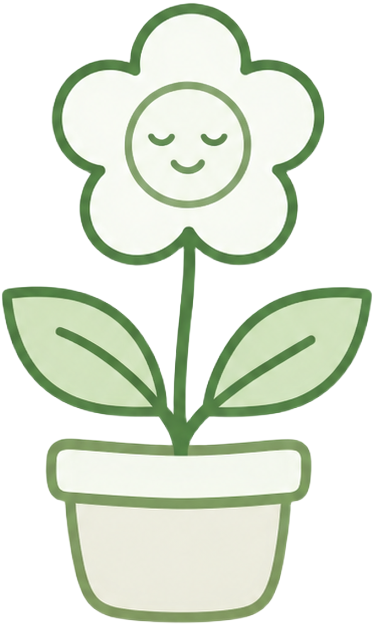
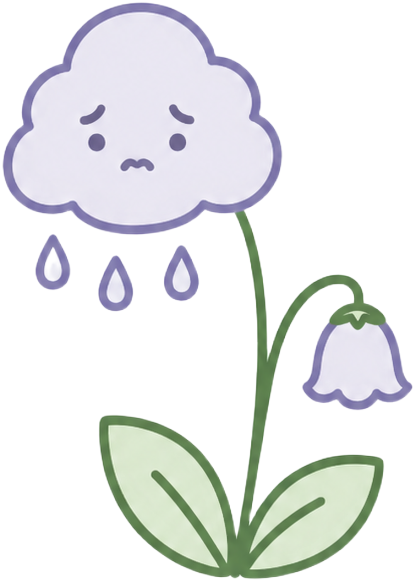
Finalize V3.1 DX2 base UI refinement

diff --git a/src/assets/uiAssets.js b/src/assets/uiAssets.js
@@ -101,8 +101,8 @@ export const moodIcons = {
 
 export const flowerImages = {
   happy: flowerHappyImage,
-  calm: flowerAnxiousImage,
-  anxious: flowerCalmImage,
+  calm: flowerCalmImage,
+  anxious: flowerAnxiousImage,
   tired: flowerTiredImage,
   excited: flowerExcitedImage,
 }
